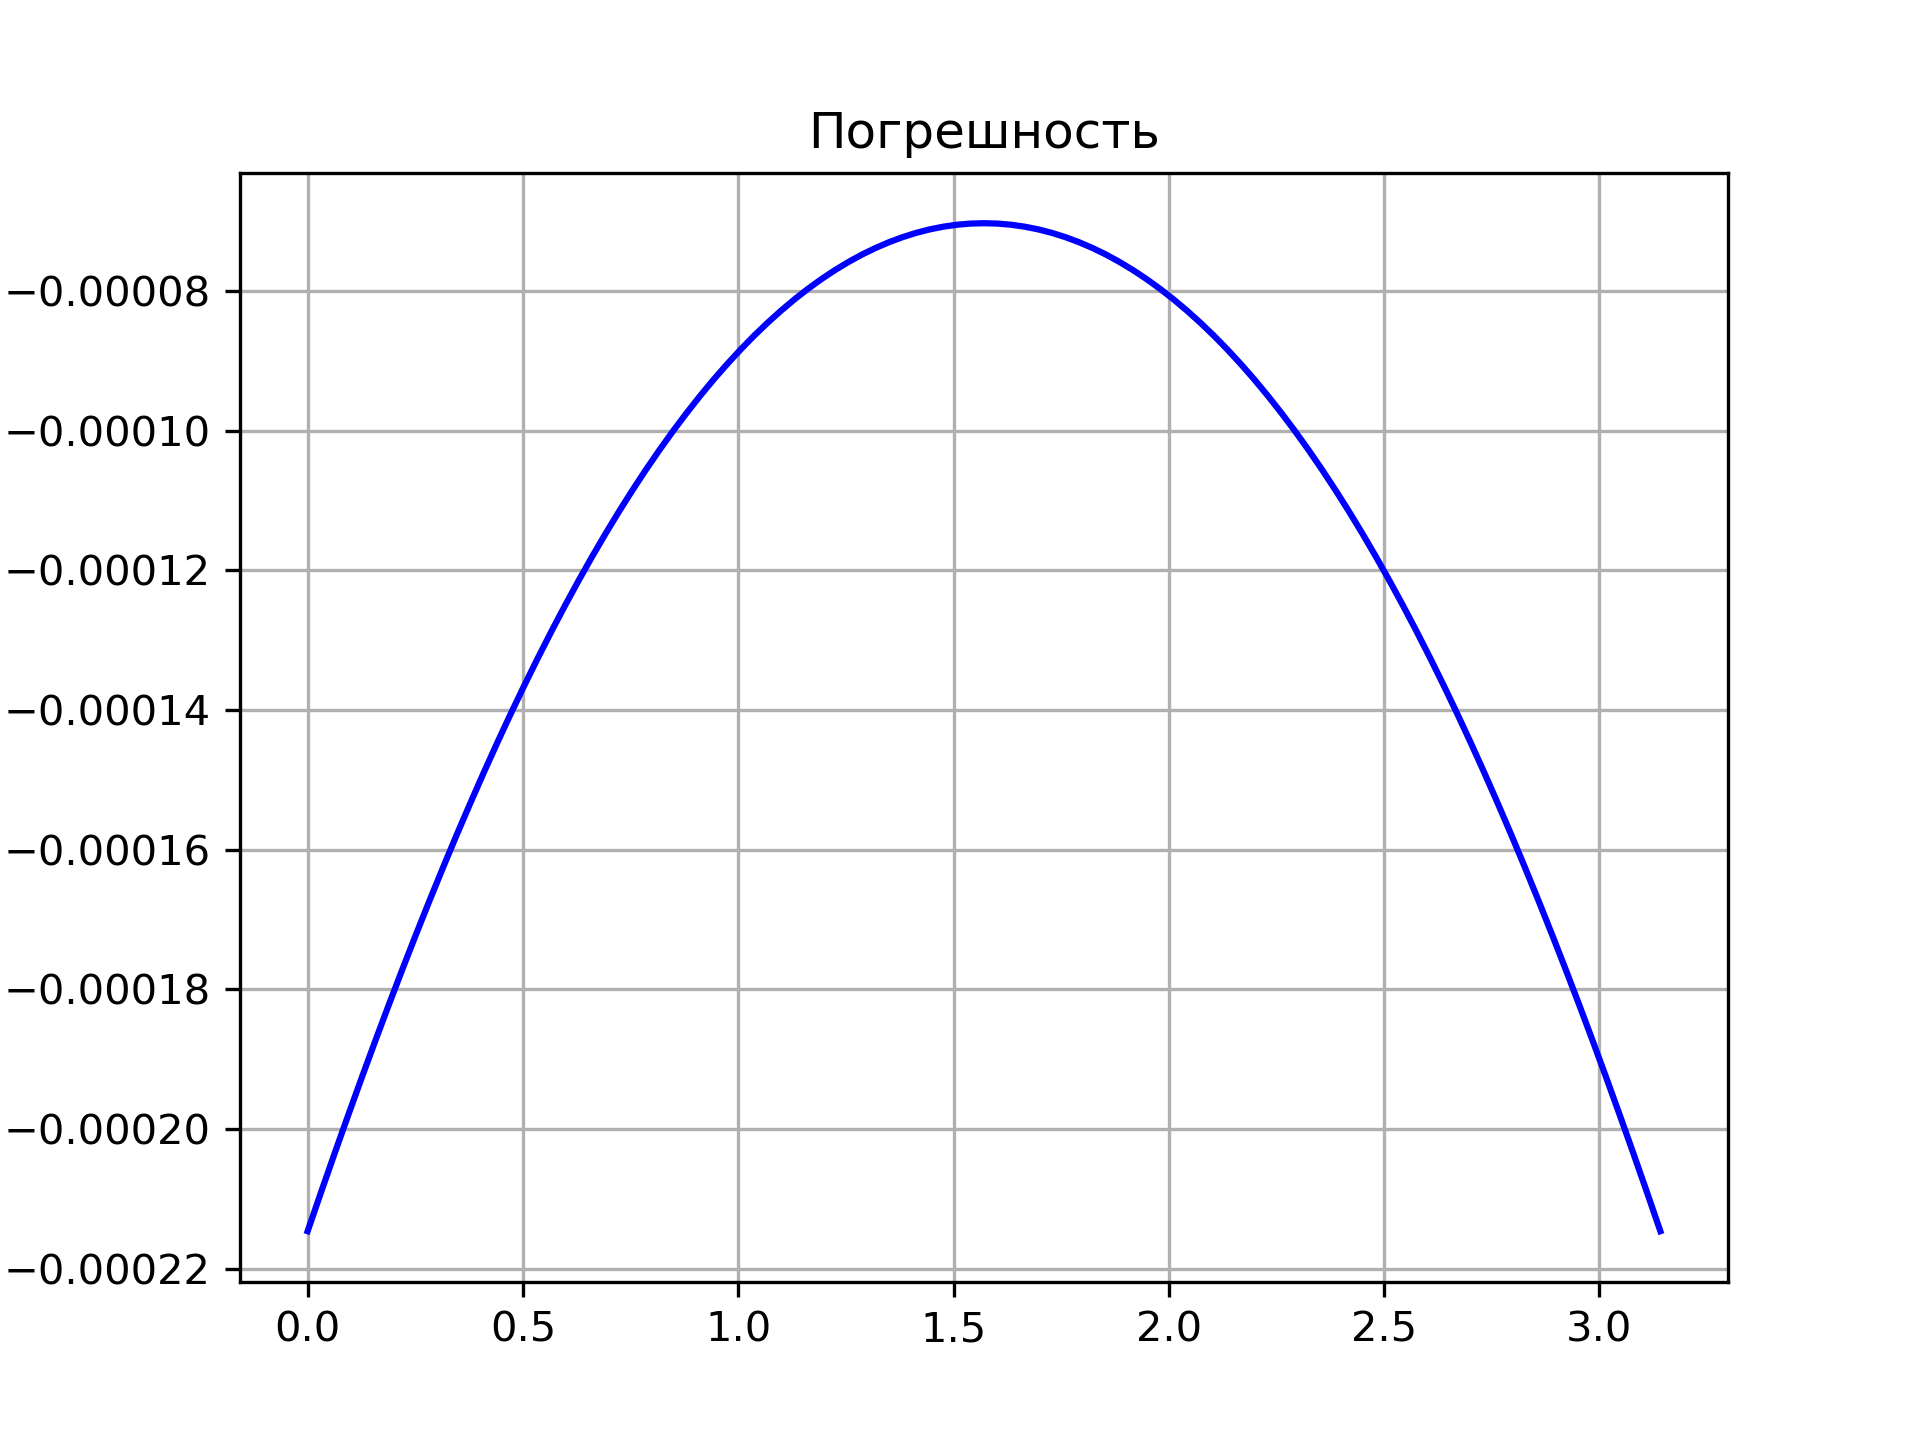
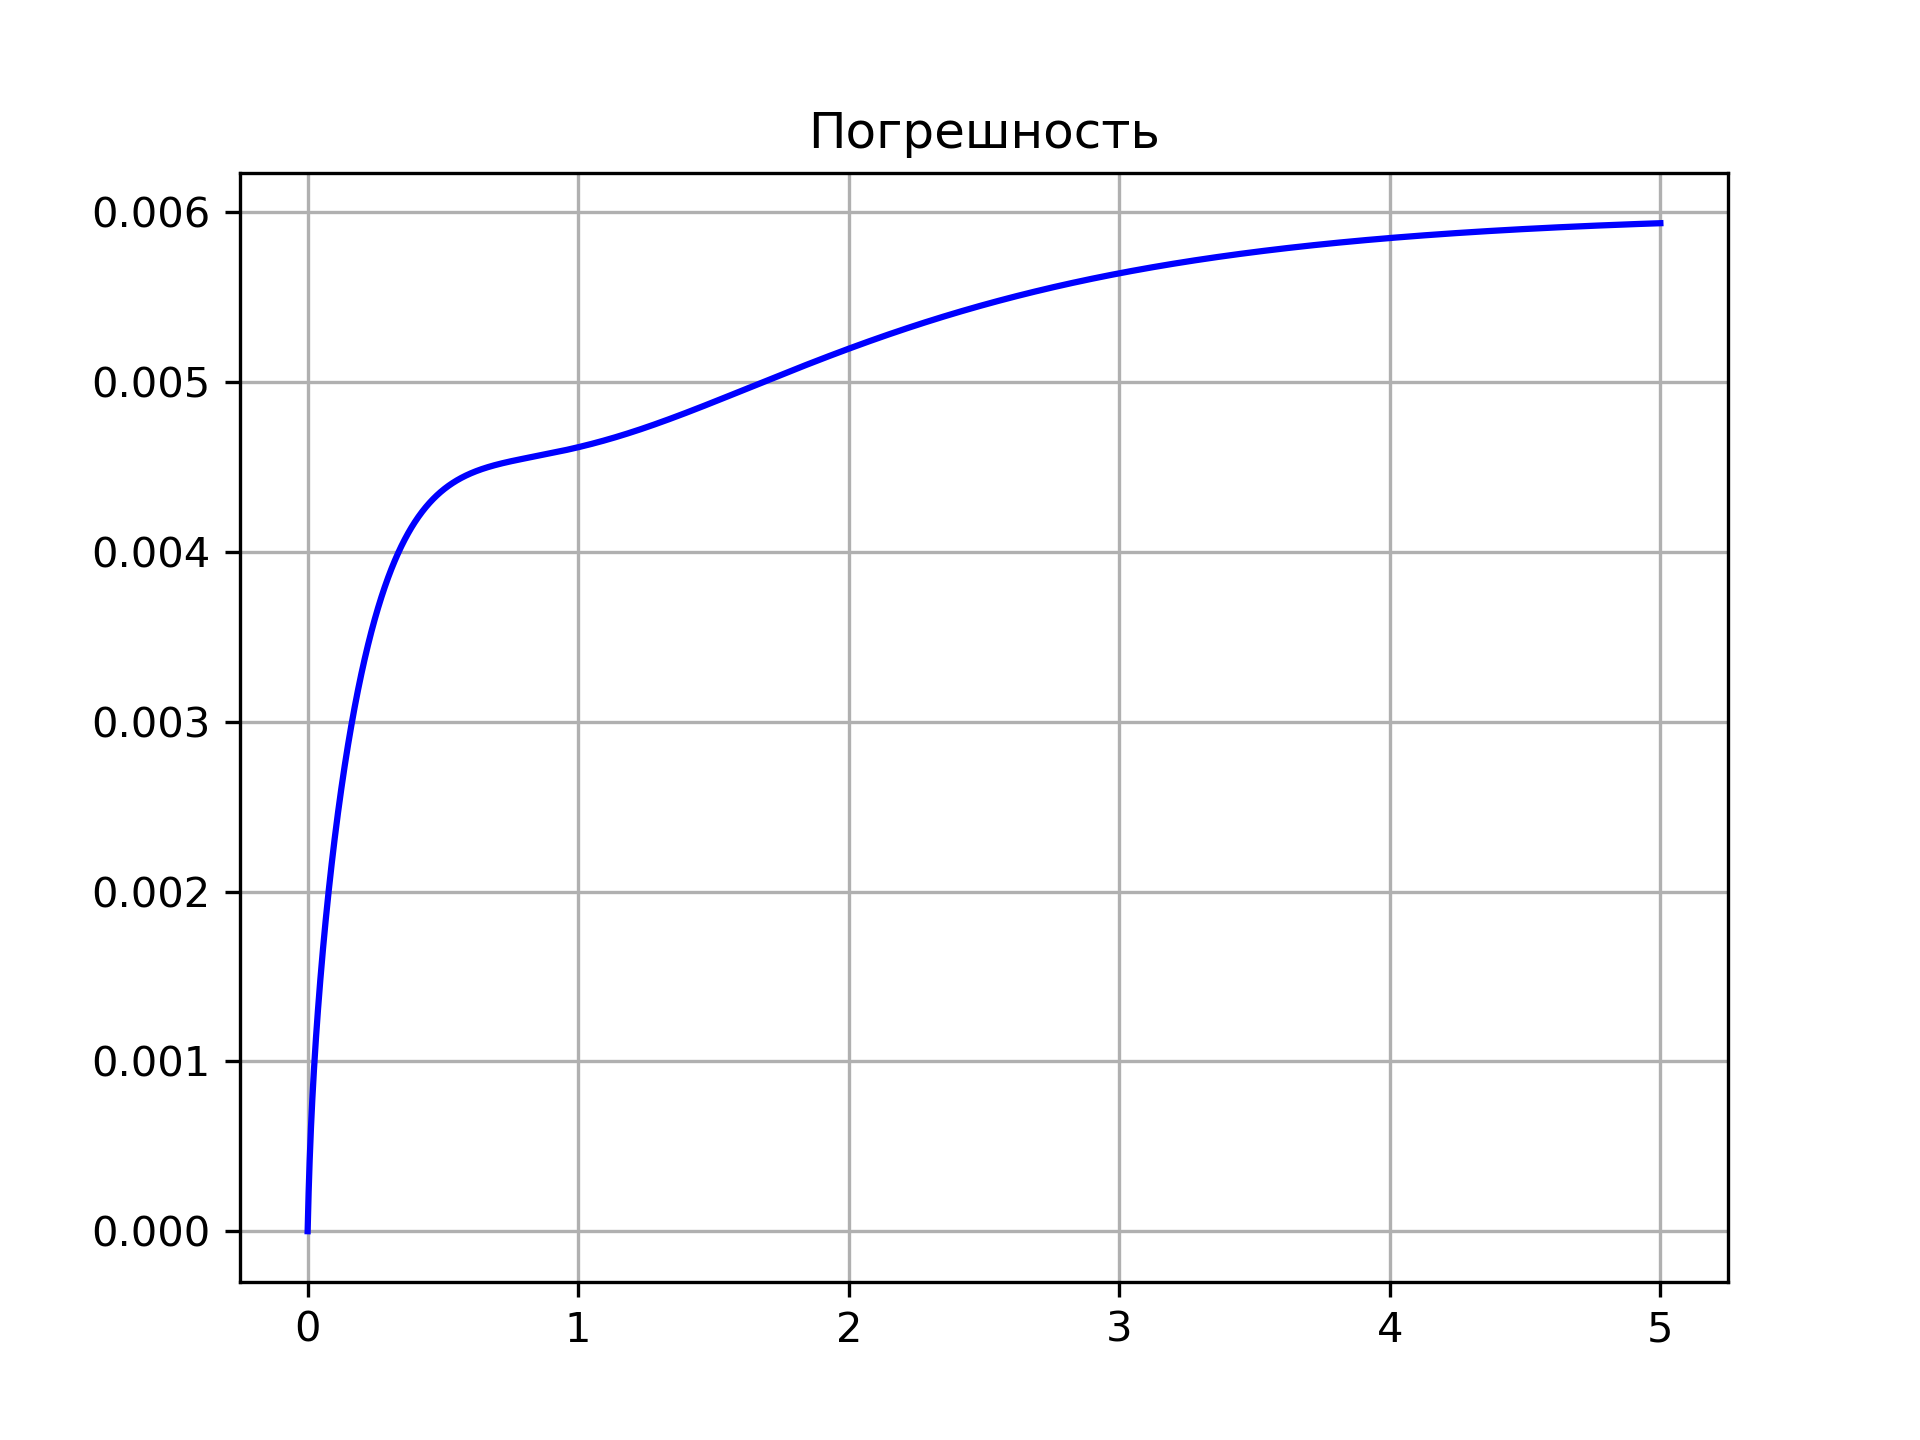
Добавление сигмы и исправление погрешности (ЛР1)

diff --git a/lab1/laba.py b/lab1/laba.py
@@ -24,22 +24,23 @@ def right_cond(a, t):
     """Граничное условие"""
     return -np.exp(-a * t)
 
-def count_time_interval(h, a, T):
+def count_time_interval(h, a, T, sigma):
     """Подсчет количества временных интервалов"""
-    return math.ceil(T * 2 * a / h**2)
+    return math.ceil(T * 2 * a / (h**2 * sigma))
 
-def get_error(x_vals, time_result, t, a, K):
+def get_error(x_vals, time_vals, result, T, K, a):
     """
     Ошибка расчитывается как норма
     разности аналитического и численного решения
-
     """
-    error = []
-    i = 0
-    for x in x_vals:
-        error.append(time_result[i] - analytical_solution(x, t, a))
-        i += 1
-    return np.linalg.norm(error)
+    res_error = []
+    for k, t in enumerate(time_vals):
+        true_res = []
+        for x in x_vals:
+            true_res.append(analytical_solution(x, t, a))
+        error = np.array(true_res) - np.array(result[k])
+        res_error.append(np.linalg.norm(error))
+    return res_error
 
 def explicit_method(a, N, K, L, T, x_vals, approx_type):
     """
@@ -51,11 +52,11 @@ def explicit_method(a, N, K, L, T, x_vals, approx_type):
     T - временной промеждуток
     h - шаг по X
     tao - шаг по T
-
     """
     u = []
     h = L / N
     tao = T / K
+    print(h, tao)
     sigma = a * tao / (h ** 2)
     k = 0
     err = []
@@ -136,13 +137,13 @@ def combined_method(a, N, K, L, T, x_vals, approx_type, teta):
             u.append(time_result)
     return u
 
-def solve(a, n, T, approx_type, scheme):
+def solve(a, n, T, sigma, approx_type, scheme):
     exact_solution = []
     L = np.pi
     h = L / n
-    K = count_time_interval(h, a, T)
+    K = count_time_interval(h, a, T, sigma)
     x_vals = [x for x in np.linspace(0, L, n + 1)]
-    # time_vals = [t for t in np.linspace(0, T, K)]
+    time_vals = [t for t in np.linspace(0, T, K)]
     if scheme == 'Явный':
         result = explicit_method(a, n, K, L, T, x_vals, approx_type)
     elif scheme == 'Неявный':
@@ -161,8 +162,8 @@ def solve(a, n, T, approx_type, scheme):
     plt.savefig('graph.png', format='png', dpi=300)
     plt.clf()
     
-    error = np.array(exact_solution) - np.array(result[K])
-    plt.plot(x_vals, error, color='blue')
+    error = get_error(x_vals, time_vals, result, T, K, a)
+    plt.plot(time_vals, error, color='blue')
     plt.grid(True)
     plt.title('Погрешность')
     plt.savefig('error.png', format='png', dpi=300)

diff --git a/lab1/views.py b/lab1/views.py
@@ -22,7 +22,8 @@ class Lab1View(View):
         # x_end = float(request.POST.get('x_end'))
         t_end = float(request.POST.get('t_end'))
         num_split = int(request.POST.get('num_split'))
-        solve(a, num_split, t_end, approximation, method)
+        sigma = float(request.POST.get('sigma'))
+        solve(a, num_split, t_end, sigma, approximation, method)
         root_dir = os.path.abspath(os.curdir)
         os.remove(root_dir + '\common_static\img\graph.png')
         os.remove(root_dir + '\common_static\img\error.png')

diff --git a/lab1/forms.py b/lab1/forms.py
@@ -19,3 +19,4 @@ class InputDataForm(forms.Form):
     # x_end = forms.FloatField(label='Окончание отчета по иксу', required=True)
     t_end = forms.FloatField(label='Окончание по времени', required=True)
     num_split = forms.FloatField(label='Количество разбиений икса', required=True)
+    sigma = forms.FloatField(label='Число Куранта', required=True)
